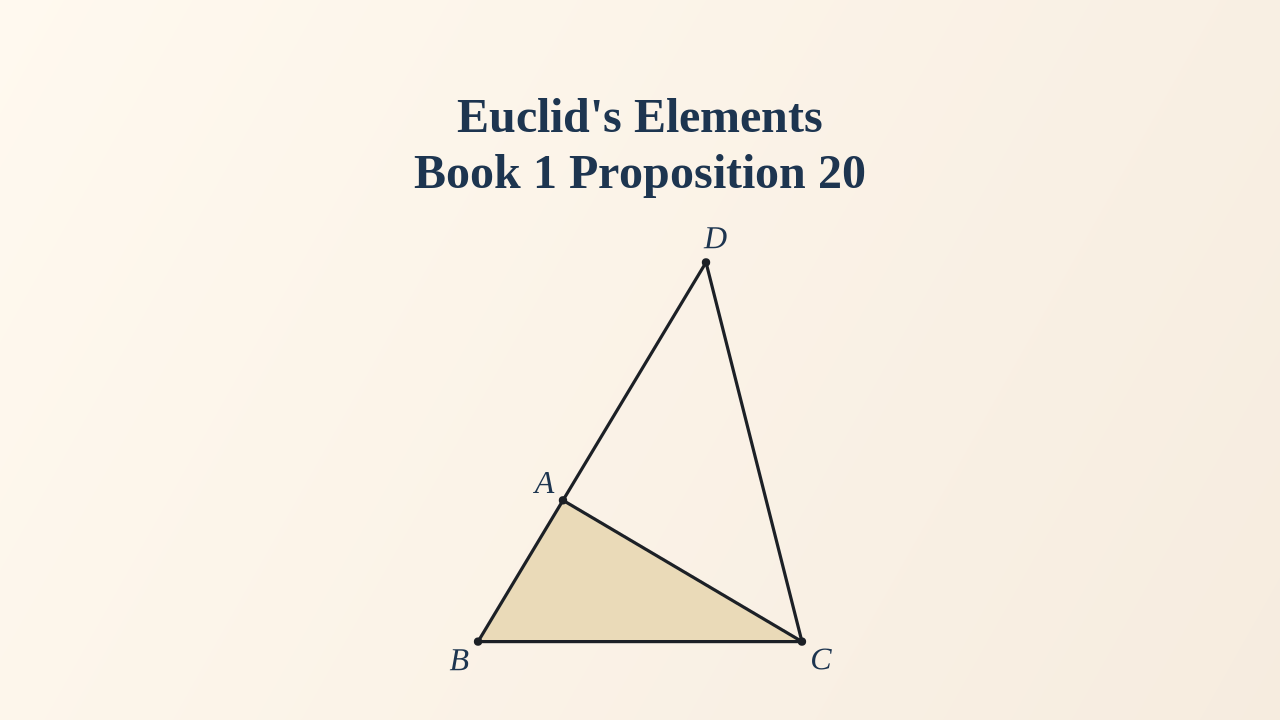
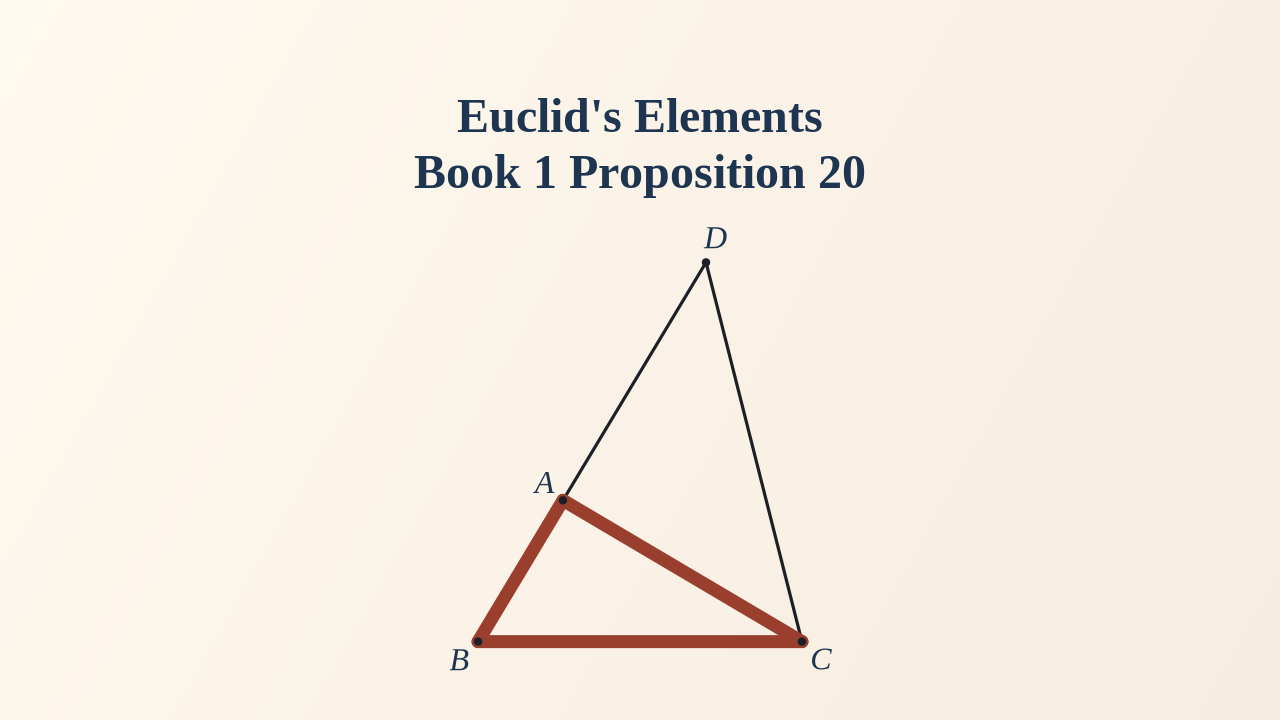
Mark the named angles and sides on the I.16–I.20 thumbnails.
The pies take the I.42 card radius, so the final render length is 54px.

Changed region(s): [[0.375, 0.6722, 0.625, 0.9167]]

diff --git a/scripts/youtube_book1_thumbs.py b/scripts/youtube_book1_thumbs.py
@@ -110,7 +110,41 @@ the two equalities. ∠AEC and ∠DEB take the rose. ∠AED and ∠CEB take
 the yellow. Both sets take the I.42 card radius, the default pie, so
 a pair reads as one set and the other pair as the other, and the only
 difference is the color. A wash of a sector would light a region the
-proposition does not claim. I.46 describes a square on a given straight-line. The card
+proposition does not claim. I.16 is the exterior angle of a triangle,
+greater than each of the interior and opposite angles. The card keeps
+the plate — E, F, G and the joins are the proof, not the subject — and
+marks the comparison the enunciation names. BC, the side produced, and
+CD, the production, take the brick. ∠ACD, the exterior angle, takes the
+rose. ∠CBA and ∠BAC, the interior and opposite angles, take the yellow.
+Both sets take the I.42 card radius, so the final render length is 54px.
+A hair of the shorter arm is the shorter mark on this plate. A wash of
+ABC would light the triangle, which the proposition does not claim.
+I.17 is any two angles of a triangle, taken together, less than two
+right-angles. The card keeps the plate — D is the production for the
+proof, not the subject — and marks the three angles the enunciation
+takes in pairs. ∠BAC, ∠ABC, and ∠ACB take one rose pie, the I.42 card
+radius, so the final render length is 54px. A plate radius short of the
+letters is the shorter mark on this plate. A wash of ABC would light
+the triangle, which the proposition does not claim. I.18 is the greater
+side subtending the greater angle. The card keeps the plate — D and BD
+are the construction, not the subject — and marks the comparison. AC,
+the greater side, takes the brick. AB, the lesser, takes the yellow.
+∠ABC, the greater angle, takes the rose. ∠BCA, the lesser, takes the
+yellow. Both pies take the I.42 card radius, so the final render length
+is 54px. A hair of the shorter arm is not this radius: on this plate
+that hair runs past the stroke. A wash of ABC would light the triangle,
+which the proposition does not claim. I.19 is the converse: the greater angle
+is subtended by the greater side. The card keeps the plate and marks
+the comparison. ∠ABC, the greater angle, takes the rose. ∠BCA, the
+lesser, takes the yellow. AC, the greater side, takes the brick. AB,
+the lesser, takes the yellow. Both pies take the I.42 card radius, so
+the final render length is 54px. A wash of ABC would light the triangle,
+which the proposition does not claim. I.20 is any two sides, taken together, greater than the
+remaining side. The card keeps the plate — D and DC are the
+construction, not the subject — and marks the three sides the
+enunciation takes in pairs. AB, BC, and AC take the brick. A wash of
+ABC would light the triangle, which the proposition does not claim.
+I.46 describes a square on a given straight-line. The card
 washes the square ADEB. The produced upright past D is the construction
 of the perpendicular, not a second figure, and the right angles are the
 square itself, not a separate mark. I.47 is the squares: the square on
@@ -204,11 +238,6 @@ LETTER_R = 0.82  # plate::LETTER_R, em of the letter type
 WASHES: dict[int, list[tuple[str, ...]]] = {
     1: [("A", "B", "C")],
     4: [("A", "B", "C"), ("D", "E", "F")],
-    16: [("A", "B", "C")],
-    17: [("A", "B", "C")],
-    18: [("A", "B", "C")],
-    19: [("A", "B", "C")],
-    20: [("A", "B", "C")],
     21: [("A", "B", "C")],
     22: [("K", "F", "G")],
     24: [("A", "B", "C"), ("D", "E", "F")],
@@ -299,6 +328,19 @@ LINES: dict[int, list[tuple[str, str]]] = {
     # The sides the squares stand on, BA, AC, and BC. AD and DC are the
     # construction, and they stay the plate ink.
     48: [("B", "A"), ("A", "C"), ("B", "C")],
+    # BC, the side produced, and CD, the production. The enunciation names
+    # the side and the exterior angle it makes. E, F, G and the joins are
+    # the proof, not the subject. C lies on BD, so each piece is the chord.
+    16: [("B", "C"), ("C", "D")],
+    # AC, the greater side. AB, the lesser, is the other line (LINE_ALT).
+    # D and BD are the construction, not the subject.
+    18: [("A", "C")],
+    # AC, the greater side, subtending the greater angle. AB, the lesser,
+    # is the other line (LINE_ALT).
+    19: [("A", "C")],
+    # AB, BC, and AC, the three sides the enunciation takes in pairs. D
+    # and DC are the construction, not the subject.
+    20: [("A", "B"), ("B", "C"), ("A", "C")],
 }
 
 # Further line equalities, each a hue that is not the angle yellow.
@@ -314,6 +356,9 @@ LINE_EXTRA: dict[int, list[tuple[tuple[int, int, int], tuple[tuple[str, str], ..
 # angle highlight, so the two pairs read as two sets, not two triangles.
 LINE_ALT: dict[int, list[tuple[str, str]]] = {
     7: [("C", "B"), ("D", "B")],
+    # AB, the lesser side. AC, the greater, is the brick (LINES).
+    18: [("A", "B")],
+    19: [("A", "B")],
 }
 
 # Equal angles share a mark: (arm, vertex, arm), grouped by equality.
@@ -359,6 +404,29 @@ ANGLES: dict[int, list[list[tuple[str, str, str]]]] = {
     # ∠BAC, the angle the enunciation concludes is right. One mark, a square
     # (SQUARE_MARK), not a pie. ∠DAC is the right-angle of the construction.
     48: [[("B", "A", "C")]],
+    # ∠ACD, the exterior angle, then ∠CBA and ∠BAC, the interior and
+    # opposite angles. The next group is the other set. E, F, G are the
+    # proof, so their angles are not here.
+    16: [
+        [("A", "C", "D")],
+        [("C", "B", "A"), ("B", "A", "C")],
+    ],
+    # ∠BAC, ∠ABC, and ∠ACB, the angles the enunciation takes in pairs.
+    # One set: the claim is any two, not an equality of the three. D is
+    # the production for the proof, so ∠ACD is not here.
+    17: [[("B", "A", "C"), ("A", "B", "C"), ("A", "C", "B")]],
+    # ∠ABC, the greater angle, then ∠BCA, the lesser. The next group is
+    # the other set. ∠ADB is the construction, not the subject.
+    18: [
+        [("A", "B", "C")],
+        [("B", "C", "A")],
+    ],
+    # ∠ABC, the greater angle, then ∠BCA, the lesser. The next group is
+    # the other set.
+    19: [
+        [("A", "B", "C")],
+        [("B", "C", "A")],
+    ],
 }
 
 # Card radius of the rose pie on a given angle and the angle the
@@ -415,6 +483,28 @@ ANGLE_MARK: dict[int, list[tuple[tuple[int, int, int], float | None]]] = {
     # differs. A hair of the shorter arm is not this radius: on this plate
     # that hair is the shorter mark, and the final render length is 54px.
     15: [(PIE_ALT, None), (PIE, None)],
+    # I.16 has two sets. The exterior is the rose. The interior and
+    # opposite angles are yellow, so the comparison does not read as one
+    # equality. Both sets take the I.42 card radius, so the final render
+    # length is 54px. A hair of the shorter arm is the shorter mark on
+    # this plate. Same radius in both sets, so a smaller second pie does
+    # not read as a lesser angle.
+    16: [(PIE_ALT, None), (PIE, None)],
+    # ∠BAC, ∠ABC, and ∠ACB. One set, the I.42 card radius, so the final
+    # render length is 54px. A plate radius short of the letters is the
+    # shorter mark on this plate. Yellow is the second set; this card
+    # has one.
+    17: [(PIE_ALT, None)],
+    # I.18 has two angles. The greater is the rose. The lesser is yellow,
+    # so the comparison does not read as one equality. Both pies take the
+    # I.42 card radius, so the final render length is 54px. A hair of the
+    # shorter arm is not this radius: on this plate that hair runs past
+    # the stroke. Same radius in both sets, so a smaller second pie does
+    # not read as a lesser angle.
+    18: [(PIE_ALT, None), (PIE, None)],
+    # I.19, as I.18. The greater is the rose. The lesser is yellow. Both
+    # pies take the I.42 card radius, so the final render length is 54px.
+    19: [(PIE_ALT, None), (PIE, None)],
     # Rose, not yellow: the pie sits on the gold parallelogram, and yellow
     # reads as more of that wash. One plate radius for the pair — a fraction
     # of each arm would draw the longer angle larger. Short of the letter
